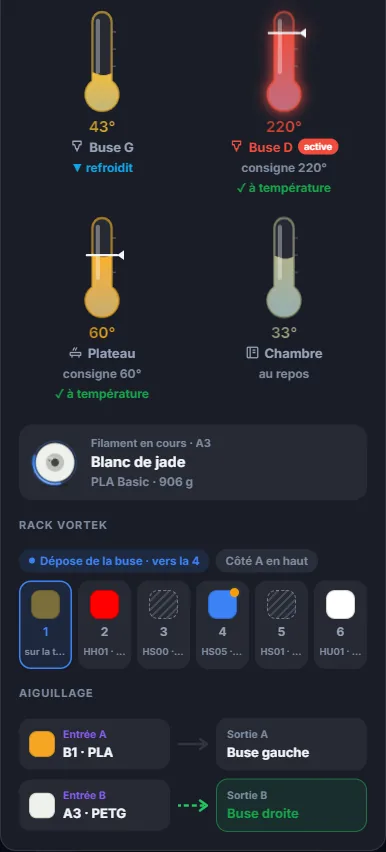
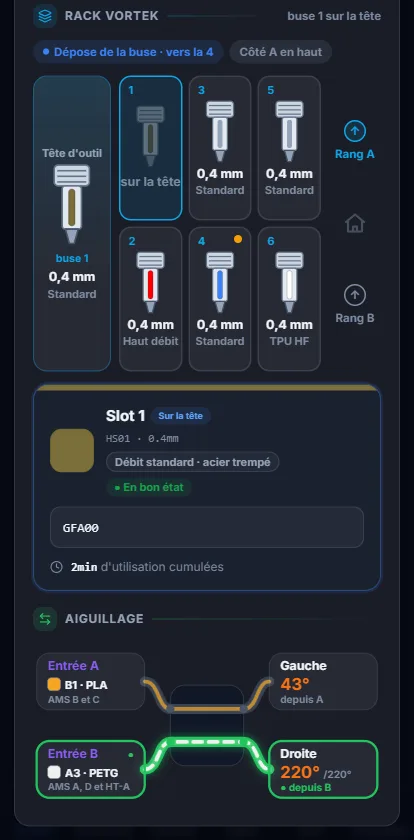
Fenêtre Imprimante refaite : températures compactes, AMS, rack Vortek complet, aiguillage en rails
Les températures passent en cases avec un petit thermomètre ; la grille des
AMS apparaît comme sur la tuile ; le rack montre la vue complète (tête,
six buses, fiche de la buse) ; l'aiguillage reprend le schéma en rails.
Titres de section en couleur avec un résumé. Doc et captures à jour.

diff --git a/frontend/src/pages/Home.jsx b/frontend/src/pages/Home.jsx
@@ -15,7 +15,7 @@ import Lightbox from "../components/Lightbox";
 import AmsOrderEditor from "../components/AmsOrderEditor";
 import { relayed } from "../components/Friends";
 import { AMSBox, AMSDetail, TrayBottomSheet, DryCard, amsRoute } from "../components/AMSSection";
-import { Zoom, TempPanel, HeadArt } from "../components/HomeTiles";
+import { Zoom, TempStrip, SwitchArt, switchModel } from "../components/HomeTiles";
 import { grilleAccueil, lireDisposition, columnWeight, slotCount, slotLabel, amsName, switchRoutes, trayPct } from "../utils/ams";
 
 // ── Helpers ────────────────────────────────────────────────────────────────
@@ -560,32 +560,6 @@ function RackState({ rack, compact = false }) {
   return <div style={{ display: "flex", gap: 6, flexWrap: compact ? "nowrap" : "wrap", overflow: "hidden", minWidth: 0 }}>{items}</div>;
 }
 
-// le rack en une bande : son etat, puis ses six buses (couleur, numero, type), celle sur la tete en bleu
-function RackStrip({ rack }) {
-  const slots = [1, 2, 3, 4, 5, 6].map(num => ({ num, slot: rack.hotends.find(h => h.id === num + 15), head: rack.head_id === num + 15 }));
-  const headSlot = rack.hotends.find(h => h.id === 0) || null;
-  return <div style={{ display: "flex", flexDirection: "column", gap: 8 }}>
-    <RackState rack={rack}/>
-    <div style={{ display: "grid", gridTemplateColumns: "repeat(6, minmax(0, 1fr))", gap: 6 }}>
-      {slots.map(({ num, slot, head }) => {
-        const src = head && headSlot ? headSlot : slot;
-        const c = src && !src.empty && src.color ? `#${String(src.color).replace("#", "").slice(0, 6)}` : null;
-        const h = nozzleHealth(src?.stat);
-        return <div key={num} title={[nozzleKind(src?.nozzle_type), src?.diameter && `${src.diameter} mm`, h?.[0]].filter(Boolean).join(" · ")}
-          style={{ display: "flex", flexDirection: "column", alignItems: "center", gap: 4, padding: "8px 4px", borderRadius: 12, minWidth: 0,
-            background: head ? "rgba(59,130,246,0.10)" : "var(--surface2)", border: `1.5px solid ${head ? "#3b82f6" : "transparent"}` }}>
-          <span style={{ width: "70%", aspectRatio: "1", borderRadius: 9, background: c || "repeating-linear-gradient(-45deg, rgba(148,163,184,0.25) 0 2px, transparent 2px 6px)",
-            border: c ? "1px solid rgba(0,0,0,0.18)" : "1px dashed rgba(148,163,184,0.6)", position: "relative" }}>
-            {h && h[0] !== "En bon état" && <span style={{ position: "absolute", top: -3, right: -3, width: 9, height: 9, borderRadius: "50%", background: h[1],
-              boxShadow: "0 0 0 2px var(--surface)" }}/>}</span>
-          <span style={{ fontSize: 12, fontWeight: 900, color: head ? "#3b82f6" : "var(--text2)" }}>{num}</span>
-          <span style={{ fontSize: 9.5, fontWeight: 700, color: "var(--muted)", whiteSpace: "nowrap", overflow: "hidden", textOverflow: "ellipsis", maxWidth: "100%" }}>
-            {head ? "sur la tête" : src?.nozzle_type ? `${src.nozzle_type} · ${src.diameter}` : "vide"}</span>
-        </div>;
-      })}
-    </div>
-  </div>;
-}
 // ── Le rack Vortek en dessin (comme Bambu Studio) : la tete d'outil a gauche, le rack en 3 x 2
 // (rang A en haut : 1 3 5, rang B en bas : 2 4 6), les rangs a droite, fleche sur celui qui est leve ──
 const FLOW_SHORT = { S: "Standard", A: "Standard", X: "Standard", H: "Haut débit", E: "Haut débit", U: "TPU HF", B: "E3D HF" };
@@ -1397,8 +1371,21 @@ function PrinterPopup({ status, img, name, onClose }) {
   const ams = (status?.ams_list || []).find(a => a.id === status?.active_ams_id);
   const tray = ams?.trays?.find(t => t.id === status?.active_tray_id);
   const spool = tray?.spool_info;
-  const R = 70, C = 2 * Math.PI * R;
-  const section = t => <div style={{ fontSize: 11, fontWeight: 800, letterSpacing: ".08em", textTransform: "uppercase", color: "var(--muted)" }}>{t}</div>;
+  // les AMS comme la tuile : leur disposition, l'unite et le bac qui impriment
+  const [order, setOrder] = useState(null);
+  useEffect(() => { client.get("/settings/ams-order").then(({ data }) => setOrder(data.order ?? null)).catch(() => setOrder(null)); }, []);
+  const amsList = [...new Map((status?.ams_list || []).map(a => [a.id, a])).values()];
+  const run = HUB_LIVE.includes(st);
+  const act = run ? status?.active_ams_id ?? -1 : -1, actTray = run ? status?.active_tray_id ?? -1 : -1;
+  const amsRows = amsList.length ? grilleAccueil(amsList, lireDisposition(order))[0]?.length || 1 : 0;
+  const rack = status?.hotend_rack;
+  const hasRack = (rack?.hotends || []).some(h => !h.empty && h.filament_id);
+  // un titre de section : sa pastille de couleur, son nom, un filet, et a droite un mot de resume
+  const section = (t, Icon, c, extra) => <div style={{ display: "flex", alignItems: "center", gap: 8, marginBottom: -4 }}>
+    <span style={{ width: 24, height: 24, borderRadius: 8, display: "inline-flex", alignItems: "center", justifyContent: "center", background: `${c}22`, color: c }}><Icon size={14}/></span>
+    <span style={{ fontSize: 12, fontWeight: 900, letterSpacing: ".06em", textTransform: "uppercase", color: "var(--text2)" }}>{t}</span>
+    <span style={{ flex: 1, height: 1, background: `linear-gradient(90deg, ${c}55, transparent)` }}/>
+    {extra && <span style={{ fontSize: 11.5, fontWeight: 800, color: "var(--muted)", whiteSpace: "nowrap" }}>{extra}</span>}</div>;
   return createPortal(
     <div data-no-pull="" onClick={e => { e.stopPropagation(); onClose(); }} style={{ position: "fixed", inset: 0, zIndex: 950, padding: 14,
       background: "rgba(2,6,23,0.6)", backdropFilter: "blur(4px)", display: "flex", alignItems: "center", justifyContent: "center", cursor: "default" }}>
@@ -1463,9 +1450,13 @@ function PrinterPopup({ status, img, name, onClose }) {
         </div>}
 
         {status?.connected && <>
-          {section("Températures")}
-          {(status.nozzles || []).length > 1 && <div style={{ display: "flex", justifyContent: "center" }}><HeadArt st={status} h={150}/></div>}
-          <TempPanel status={status} cardH={104}/>
+          {section("Températures", Thermometer, "#f97316")}
+          <TempStrip status={status}/>
+        </>}
+
+        {amsList.length > 0 && <>
+          {section("AMS", Disc3, "#8B5CF6", act >= 0 ? `● ${slotLabel(act, actTray)}` : `${amsList.filter(a => a.id !== 255).length} unité${amsList.length > 1 ? "s" : ""}`)}
+          <HubGrid list={amsList} order={order} act={act} actTray={actTray} H={Math.min(300, amsRows * (narrowPop ? 100 : 116))} climate big={!narrowPop} fs={switchRoutes(status)}/>
         </>}
 
         {tray && !tray.empty ? <div style={{ display: "grid", gridTemplateColumns: "repeat(auto-fit, minmax(200px, 1fr))", gap: 8 }}>
@@ -1481,18 +1472,18 @@ function PrinterPopup({ status, img, name, onClose }) {
           </div>}
         </div> : null}
 
-        {(status?.hotend_rack?.hotends || []).some(h => !h.empty && h.filament_id) && <>
-          {section("Rack Vortek")}
-          <RackStrip rack={status.hotend_rack} activeNozzleId={(status.nozzles || []).find(n => n.active)?.id}/>
+        {hasRack && <>
+          {section("Rack Vortek", Layers, "#0ea5e9", rack.head_id >= 16 && rack.head_id <= 21 ? `buse ${rack.head_id - 15} sur la tête` : null)}
+          <VortekPanel rack={rack}/>
         </>}
 
         {status?.fila_switch?.installed && <>
-          {section("Aiguillage")}
-          <SwitchDiagram fs={switchRoutes(status)} status={status}/>
+          {section("Aiguillage", ArrowLeftRight, "#22c55e", switchRoutes(status)?.calibrating ? "calibration" : null)}
+          <div style={{ display: "flex", justifyContent: "center" }}><div style={{ width: "100%", maxWidth: 520 }}><SwitchArt m={switchModel(status)} W="100%" H="auto"/></div></div>
         </>}
 
         {status?.hms_decoded?.length > 0 && <>
-          {section("Alertes de la machine")}
+          {section("Alertes de la machine", AlertTriangle, "#ef4444", status.hms_decoded.length)}
           <div style={{ display: "flex", flexDirection: "column", gap: 6 }}>
             {status.hms_decoded.map((h, i) => { const sc = HMS_SEV[h.severity] || HMS_SEV.info; return (
               <a key={i} href={h.wiki} target="_blank" rel="noreferrer" style={{ display: "flex", gap: 10, alignItems: "flex-start", textDecoration: "none",
@@ -1511,55 +1502,6 @@ function PrinterPopup({ status, img, name, onClose }) {
 function trayHex(t) {
   const c = t && !t.empty && (t.spool_info?.color || t.spool_info?.filament_color || t.color);
   return c ? `#${String(c).replace("#", "").slice(0, 6)}` : null;
-}
-// Le Filament Track Switch : ce qui entre en A et en B (l'AMS et son bac, sa couleur),
-// et la buse que sert chaque sortie. Format releve dans Bambu Studio (DevFilaSwitch).
-function SwitchDiagram({ fs, status }) {
-  const tray = slot => {
-    if (!slot) return null;
-    const a = (status?.ams_list || []).find(x => x.id === slot.ams);
-    return { label: slotLabel(slot.ams, slot.tray), t: a?.trays?.find(t => t.id === slot.tray) };
-  };
-  const nozzle = id => id == null ? "—" : (status?.nozzles?.length > 1 ? (id === 1 ? "Buse gauche" : "Buse droite") : "Buse");
-  const activeNz = (status?.nozzles || []).find(n => n.active)?.id;
-  const line = (port, slot, out) => {
-    const x = tray(slot);
-    const col = trayHex(x?.t);
-    const live = out != null && out === activeNz;
-    return (
-      <div key={port} style={{ display: "grid", gridTemplateColumns: "minmax(0,1fr) 34px minmax(0,1fr)", alignItems: "center", gap: 6 }}>
-        <div style={{ display: "flex", alignItems: "center", gap: 8, padding: "8px 10px", borderRadius: 12, background: "var(--surface2)", minWidth: 0 }}>
-          <span style={{ width: 26, height: 26, borderRadius: 8, flexShrink: 0, background: col || "transparent",
-            border: col ? "1px solid rgba(0,0,0,0.15)" : "1.5px dashed var(--border)" }}/>
-          <div style={{ minWidth: 0 }}>
-            <div style={{ fontSize: 10.5, fontWeight: 800, color: "#8b5cf6" }}>Entrée {port}</div>
-            <div style={{ fontSize: 13, fontWeight: 900, color: "var(--text)", whiteSpace: "nowrap", overflow: "hidden", textOverflow: "ellipsis" }}>
-              {x ? `${x.label}${x.t?.filament_type ? ` · ${x.t.filament_type}` : ""}` : "rien"}</div>
-          </div>
-        </div>
-        <svg width="34" height="20" viewBox="0 0 34 20" aria-hidden="true">
-          <path d="M2 10 H28" stroke={live ? "#22c55e" : "var(--border)"} strokeWidth="2.5" strokeDasharray={live ? "5 3" : "none"}
-            style={live ? { animation: "bn-dash 1s linear infinite" } : undefined}/>
-          <path d="M24 5 L31 10 L24 15" fill="none" stroke={live ? "#22c55e" : "var(--border)"} strokeWidth="2.5" strokeLinecap="round" strokeLinejoin="round"/>
-        </svg>
-        <div style={{ padding: "8px 10px", borderRadius: 12, minWidth: 0, background: live ? "rgba(34,197,94,0.1)" : "var(--surface2)",
-          border: `1px solid ${live ? "rgba(34,197,94,0.45)" : "transparent"}` }}>
-          <div style={{ fontSize: 10.5, fontWeight: 800, color: "var(--muted)" }}>Sortie {port}</div>
-          <div style={{ fontSize: 13, fontWeight: 900, color: live ? "#16a34a" : "var(--text)" }}>{nozzle(out)}</div>
-        </div>
-      </div>
-    );
-  };
-  return (
-    <div style={{ display: "flex", flexDirection: "column", gap: 8 }}>
-      {line("A", fs.in_a, fs.out_a)}
-      {line("B", fs.in_b, fs.out_b)}
-      {/* la presence du filament (info bit 0) n'est pas fiable : Bambu Studio la lit pareil pour A et B */}
-      {fs.calibrating && <div style={{ display: "flex", gap: 8, flexWrap: "wrap", fontSize: 11.5, fontWeight: 700, color: "var(--muted)" }}>
-        {fs.calibrating && <span style={{ color: "#f59e0b" }}>● calibration en cours</span>}
-      </div>}
-    </div>
-  );
 }
 // toute la largeur sur une rangee : un bandeau. La vignette (un clic l'ouvre en grand),
 // le nom, le pourcentage en grand, le temps restant, l'heure de fin, la couche, la barre ;

diff --git a/frontend/public/doc/pages/imprimante.html b/frontend/public/doc/pages/imprimante.html
@@ -14,7 +14,7 @@
       <li><strong>Première ligne</strong> : un point d'état (qui pulse pendant une impression), le nom de l'impression, puis éventuellement un triangle rouge (un filament détecté par l'imprimante est introuvable dans ta base, voir <a href="#imprimante-ams-associer">Associer une bobine</a>), un triangle orange (alertes de la machine) et l'icône Wi-Fi (verte = connectée).</li>
       <li><strong>Deuxième ligne</strong> : la vignette du plateau, l'<strong>étape</strong> en cours (« Chauffe de la buse », « Nivellement du plateau »…) ou l'état (« En cours », « En pause », « Terminé », « Erreur », « En veille », « Préparation »), la barre de progression, le temps restant (« 🕒 1h 15min »), les couches (« 120/300 »), l'heure de fin (« 📅 14:35 », avec +1 si c'est demain) et le pourcentage en grand.</li>
     </ul>
-    <p><strong>Touche le bloc</strong> pour ouvrir la <a href="#imprimante-fenetre">fenêtre « Imprimante »</a> : températures détaillées, filament en cours, rack, aiguillage et alertes y sont rassemblés. La caméra, elle, a sa propre <a href="#tuiles-camera">tuile</a>.</p>
+    <p><strong>Touche le bloc</strong> pour ouvrir la <a href="#imprimante-fenetre">fenêtre « Imprimante »</a> : températures, AMS, filament en cours, rack, aiguillage et alertes y sont rassemblés. La caméra, elle, a sa propre <a href="#tuiles-camera">tuile</a>.</p>
     <figure class="phone"><img src="img/imprimante-bloc.webp" alt="Bloc Imprimante en toute la colonne : nom de l'impression, vignette, étape, barre de progression, temps restant, couches, heure de fin et pourcentage"><figcaption>Le bloc Imprimante sur toute la colonne.</figcaption></figure>
     <p>Option du bloc à cette taille (bouton à curseurs, en personnalisation) :</p>
     <dl class="opts">
@@ -38,18 +38,20 @@
     <h3>La fenêtre « Imprimante »</h3>
     <p>Quelle que soit sa présentation, <strong>touche le bloc</strong> (ailleurs que sur la vignette) pour ouvrir la fenêtre <span class="ui">Imprimante</span>, qui rassemble tout l'état de la machine. La croix ou Échap la ferment.</p>
     <figure class="pair">
-      <img src="img/imprimante-fenetre.webp" alt="Fenêtre Imprimante : état En cours, carte avec l'avancement 42 %, cases Reste, Fin, Couche, dessin de la tête et cartes de température">
-      <img src="img/imprimante-fenetre-bas.webp" alt="Suite de la fenêtre : cartes Buse G, Buse D, Plateau, Chambre, Filament en cours, Rack Vortek avec six buses, Aiguillage avec deux entrées et deux sorties">
+      <img src="img/imprimante-fenetre.webp" alt="Fenêtre Imprimante : état En cours, carte avec l'avancement 42 %, cases Reste, Fin, Couche, quatre cases de température, grille des AMS et filament en cours">
+      <img src="img/imprimante-fenetre-bas.webp" alt="Suite de la fenêtre : Rack Vortek avec la tête d'outil, six buses et la fiche de la buse choisie, schéma de l'aiguillage avec ses deux rails jusqu'aux buses Gauche et Droite">
       <figcaption>La fenêtre « Imprimante », en haut et en bas.</figcaption>
     </figure>
     <ul>
       <li><strong>En-tête</strong> : l'état en couleur (« En cours », « En pause », l'étape, « Terminée », « Échouée », « Au repos », « Injoignable ») et la version du micrologiciel.</li>
       <li><strong>Carte principale</strong> : la vignette (touche-la pour l'agrandir), le nom (« Rien en cours » sinon), « encore 1h 15min · fin 18:58 », un anneau d'avancement et une barre.</li>
       <li><strong>Trois cases</strong> : <span class="ui">Reste</span>, <span class="ui">Fin</span>, <span class="ui">Couche</span> (avec une barre des couches).</li>
-      <li><strong>TEMPÉRATURES</strong> : sur une machine à deux buses, le dessin de la tête (voir <a href="#imprimante-tete">La tête et les buses</a>), puis un thermomètre en verre par source (<span class="ui">Buse G</span>, <span class="ui">Buse D</span>, <span class="ui">Plateau</span>, <span class="ui">Chambre</span>) : le liquide monte du froid vers la chaleur, la consigne est marquée d'un repère fléché, et dessous on lit le chiffre, la source (avec son pictogramme), « consigne 220° » et l'état : « ✓ à température », « chauffe », « ▼ refroidit » ou « au repos ». La buse qui imprime brille et porte l'étiquette <span class="ui">active</span>. C'est le même style que la vue en grand de la tuile <a href="#tuiles-temps">Températures</a>.</li>
+      <li>Chaque section a son titre en couleur, et à droite un mot de résumé (l'emplacement qui imprime, la buse sur la tête, le nombre d'alertes…).</li>
+      <li><strong>TEMPÉRATURES</strong> : une case par source (<span class="ui">Buse G</span>, <span class="ui">Buse D</span>, <span class="ui">Plateau</span>, <span class="ui">Chambre</span>), toutes sur une rangée sur un grand écran, deux par rangée sur téléphone : un petit thermomètre en verre, le chiffre en couleur (du bleu froid au rouge brûlant), le pictogramme de la source, puis la consigne (« ✓ 220° » à température, « ▲ 220° » en chauffe) ou l'état sans consigne (« refroidit », « au repos »). La buse qui imprime est cerclée de sa couleur.</li>
+      <li><strong>AMS</strong> : la même grille que la tuile <a href="#imprimante-ams">AMS</a>, dans ta disposition : chaque unité avec ses bobines, son taux de remplissage, son humidité, son séchage et son entrée d'aiguillage ; l'unité et la bobine qui impriment sont en bleu, et l'emplacement (« ● A3 ») est rappelé à droite du titre.</li>
       <li><strong>Filament en cours</strong> : la bobine dessinée, son nom, sa matière et son poids restant, avec l'emplacement (« · A3 »).</li>
-      <li><strong>RACK VORTEK</strong> (si ta machine en a un) : l'état du rack et les six buses (couleur, numéro, type et diamètre, « sur la tête », case hachurée si vide, petit point orange en cas d'anomalie). Voir <a href="#imprimante-vortek">Le rack Vortek</a>.</li>
-      <li><strong>AIGUILLAGE</strong> (si installé) : une ligne par entrée, « Entrée A » avec la bobine engagée → « Sortie A » et la buse servie ; la flèche est verte et animée pour le chemin qui imprime. Voir <a href="#imprimante-aiguillage">L'aiguillage</a>.</li>
+      <li><strong>RACK VORTEK</strong> (si ta machine en a un) : la vue complète du rack, comme dans la fenêtre de la tuile : l'état du rack, la tête d'outil et les six buses (couleur, numéro, diamètre et type, « sur la tête », point orange en cas d'anomalie). Touche une buse pour afficher sa fiche dessous. Voir <a href="#imprimante-vortek">Le rack Vortek</a>.</li>
+      <li><strong>AIGUILLAGE</strong> (si installé) : le schéma en rails, comme la tuile <a href="#imprimante-aiguillage">Aiguillage</a> : les entrées A et B (bobine engagée, AMS branchés), le corps de l'aiguillage, et les buses <span class="ui">Gauche</span> et <span class="ui">Droite</span> avec leur température ; chaque rail porte la couleur de son filament, celui qui imprime est vert, lumineux et animé.</li>
       <li><strong>ALERTES DE LA MACHINE</strong> : les alertes HMS, voir ci-dessous.</li>
     </ul>
   </section>

diff --git a/frontend/src/components/HomeTiles.jsx b/frontend/src/components/HomeTiles.jsx
@@ -2021,6 +2021,25 @@ function thermoGrid(n, W, H, gap = 8) {
 }
 // en grand (fenetre de la tuile, fenetre de l'imprimante) : les memes thermometres en verre, et pour chacun
 // son nom, sa consigne et ce qu'il fait
+// les temperatures en bande, pour la fenetre de l'imprimante : un petit thermometre, le chiffre en degrade,
+// le pictogramme, la consigne (ou l'etat) ; une case par source, toutes sur une rangee quand la place le permet
+export function TempStrip({ status }) {
+  const [ref, box] = useMeasure();
+  const rows = status?.connected ? tempRows(status, { chamber: true }) : [];
+  const cols = Math.max(1, box.W >= 440 ? rows.length : Math.min(2, rows.length));
+  return <div ref={ref} style={{ display: "grid", gridTemplateColumns: `repeat(${cols}, minmax(0, 1fr))`, gap: 8 }}>
+    {box.W > 0 && rows.map(r => { const c = heat(r.v), [ic, st, sc] = tempState(r.v || 0, r.t || 0);
+      return <div key={r.k} title={`${r.l} : ${st}`} style={{ display: "flex", alignItems: "center", justifyContent: "center", gap: 8, padding: "8px 8px", borderRadius: 14,
+        minWidth: 0, background: `linear-gradient(135deg, color-mix(in srgb, ${c} 16%, transparent), transparent 70%), var(--surface2)`,
+        boxShadow: r.active ? `inset 0 0 0 1.5px ${c}` : "none" }}>
+        <ThermoGauge bare v={r.v} t={r.t} max={r.max} size={52} c={c} active={r.active}/>
+        <div style={{ minWidth: 0, display: "flex", flexDirection: "column", lineHeight: 1.15 }}>
+          <span style={{ fontSize: 22, fontWeight: 900, whiteSpace: "nowrap", ...gradText(`color-mix(in srgb, ${c} 72%, #000000)`, c) }}>{Math.round(r.v || 0)}°</span>
+          <span style={{ display: "inline-flex", alignItems: "center", gap: 4, fontSize: 11.5, fontWeight: 800, color: r.active ? c : "var(--text2)", whiteSpace: "nowrap" }}>
+            <r.ico s={13}/>{r.l}</span>
+          <span style={{ fontSize: 11, fontWeight: 800, color: sc, whiteSpace: "nowrap", overflow: "hidden", textOverflow: "ellipsis" }}>{r.t > 0 ? `${ic} ${Math.round(r.t)}°` : st}</span>
+        </div></div>; })}</div>;
+}
 export function TempPanel({ status, chamber = true, cardH = 190 }) {
   const [ref, box] = useMeasure();
   const rows = status?.connected ? tempRows(status, { chamber }) : [];
@@ -2812,7 +2831,7 @@ const unitsLabel = u => {
 };
 const SIDE = id => id == null ? null : id === 1 ? "G" : "D";
 const SIDE_L = id => id == null ? "—" : id === 1 ? "Gauche" : "Droite";
-function switchModel(status) {
+export function switchModel(status) {
   const fs = switchRoutes(status) || {};
   const ams = status?.ams_list || [];
   const nz = status?.nozzles || [];
@@ -2844,7 +2863,7 @@ function SwitchRail({ d, live, color, hl, w = 10 }) {
       style={{ transition: "d .8s cubic-bezier(.5,1.3,.5,1)", ...(live ? { animation: "bn-dash .8s linear infinite" } : {}) }}/>}
   </g>;
 }
-function SwitchArt({ m, W, H }) {
+export function SwitchArt({ m, W, H }) {
   const [A, B] = m.ports;
   const VW = 380, VH = 180, HL = m.hl;
   const inY = { A: 42, B: 138 }, pY = { A: 72, B: 108 }, oY = { G: 72, D: 108 }, nY = { G: 42, D: 138 };

diff --git a/frontend/public/doc/pages/tuiles.html b/frontend/public/doc/pages/tuiles.html
@@ -133,7 +133,7 @@
       <dt><span class="ui">Consignes</span> (oui)</dt><dd>Affiche la température visée à côté de la valeur.</dd>
       <dt><span class="ui">Chambre</span> (oui)</dt><dd>Affiche la chambre (si la machine en a une).</dd>
     </dl>
-    <p><b>Au toucher</b> : les thermomètres en grand (quatre par ligne sur un grand écran, deux sur téléphone), avec la source, la consigne et l'état — le même style que la <a href="#imprimante-fenetre">fenêtre de l'imprimante</a>. Pas de bouton <span class="ui">Ouvrir</span>.</p>
+    <p><b>Au toucher</b> : les thermomètres en grand (quatre par ligne sur un grand écran, deux sur téléphone), avec la source, la consigne et l'état. La <a href="#imprimante-fenetre">fenêtre de l'imprimante</a> les montre en plus petit. Pas de bouton <span class="ui">Ouvrir</span>.</p>
   </section>
 
   <section id="tuiles-spool">
